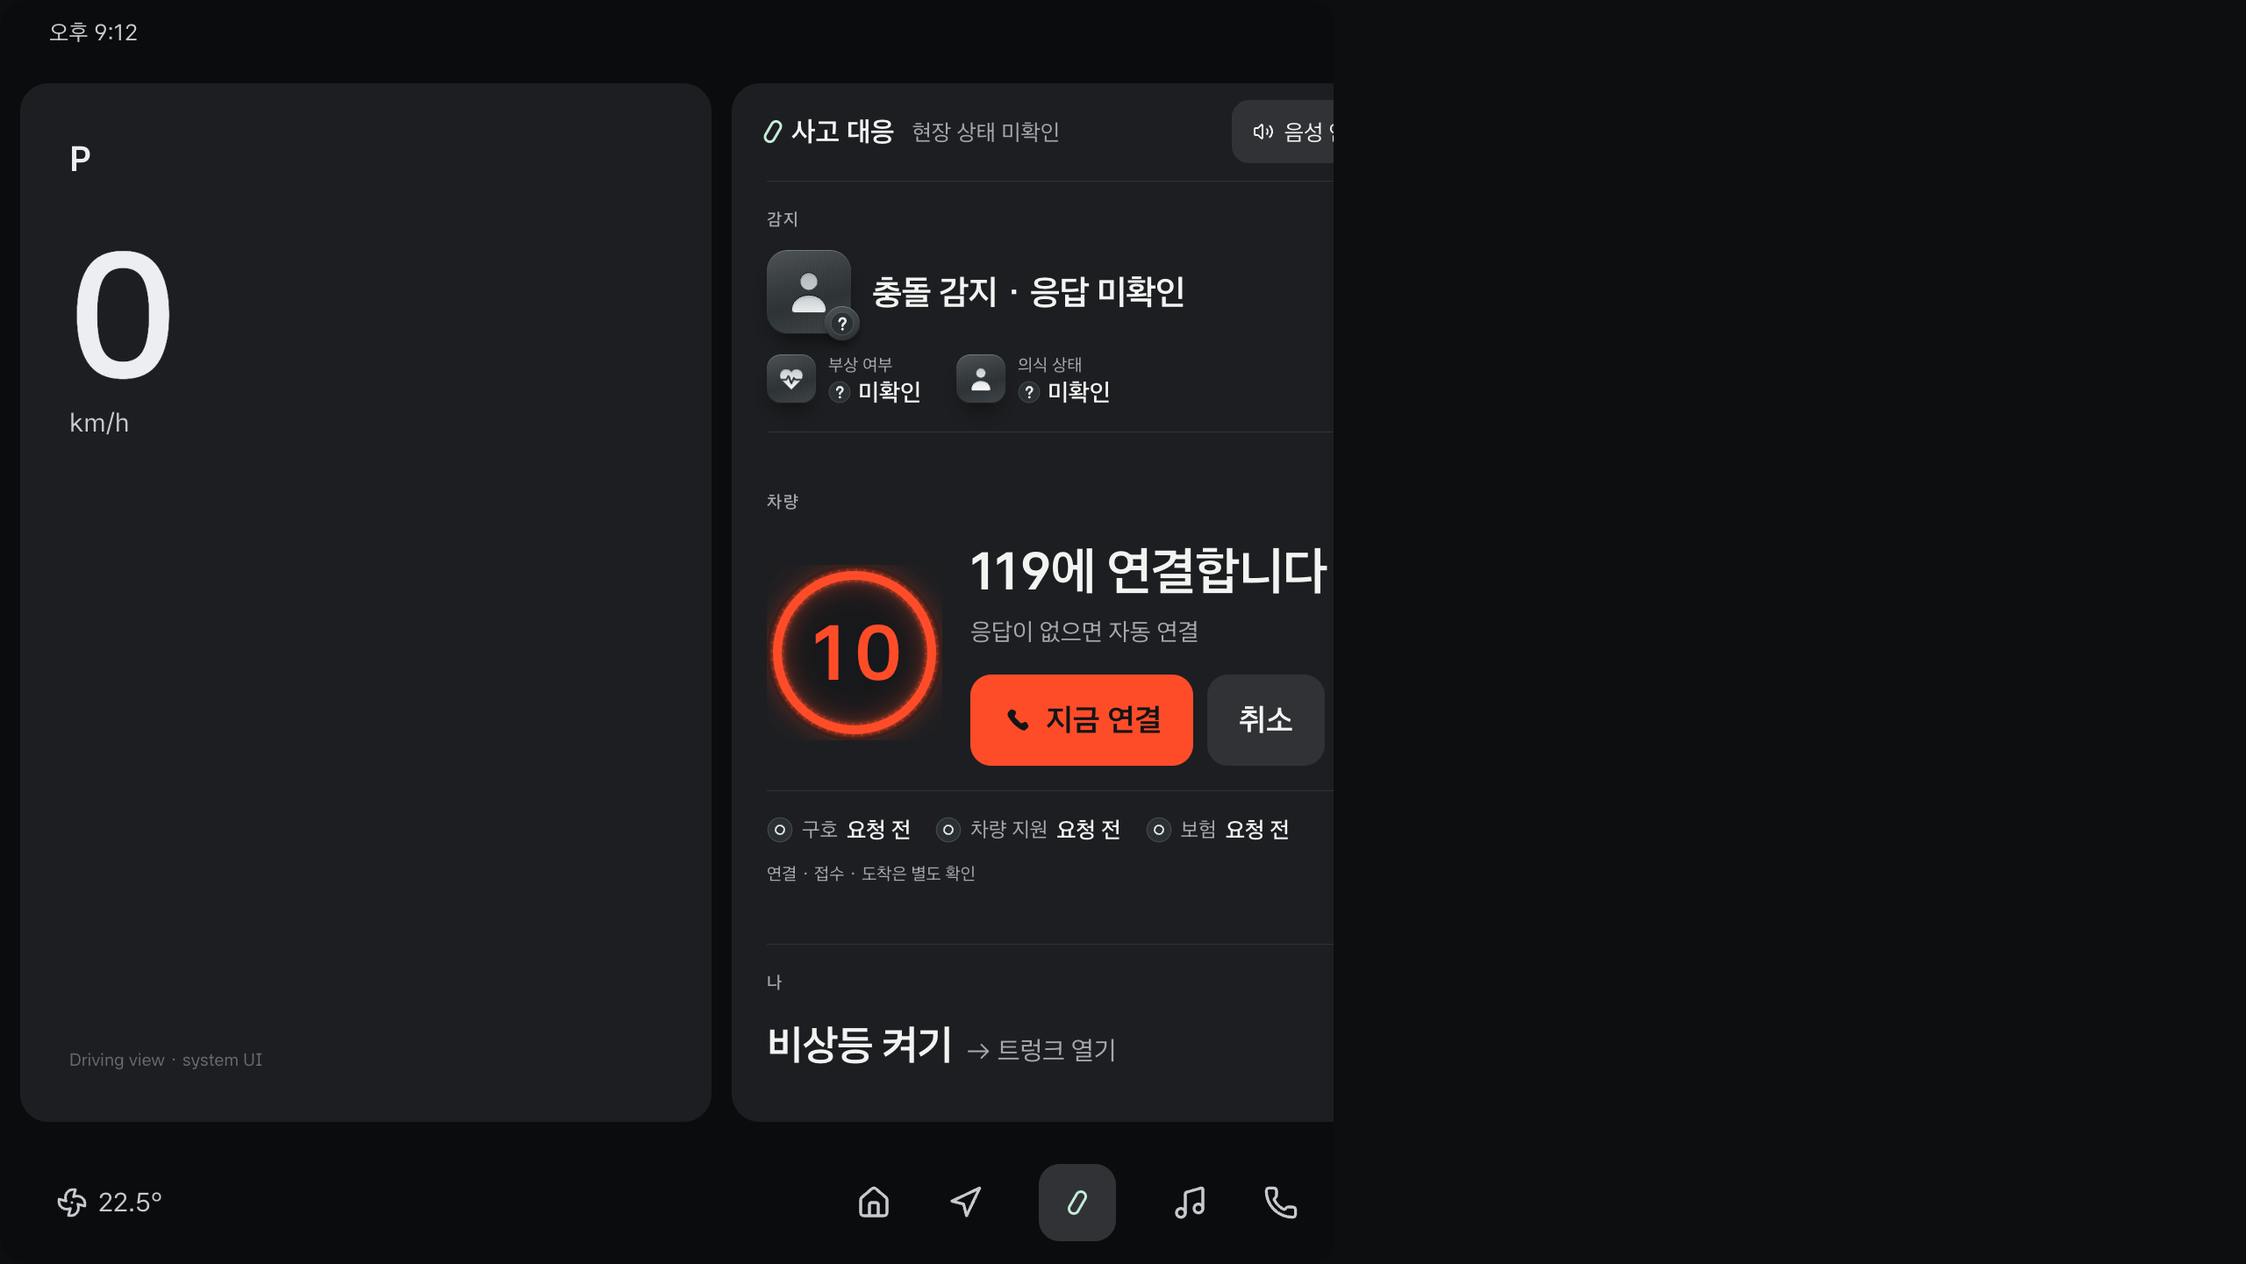
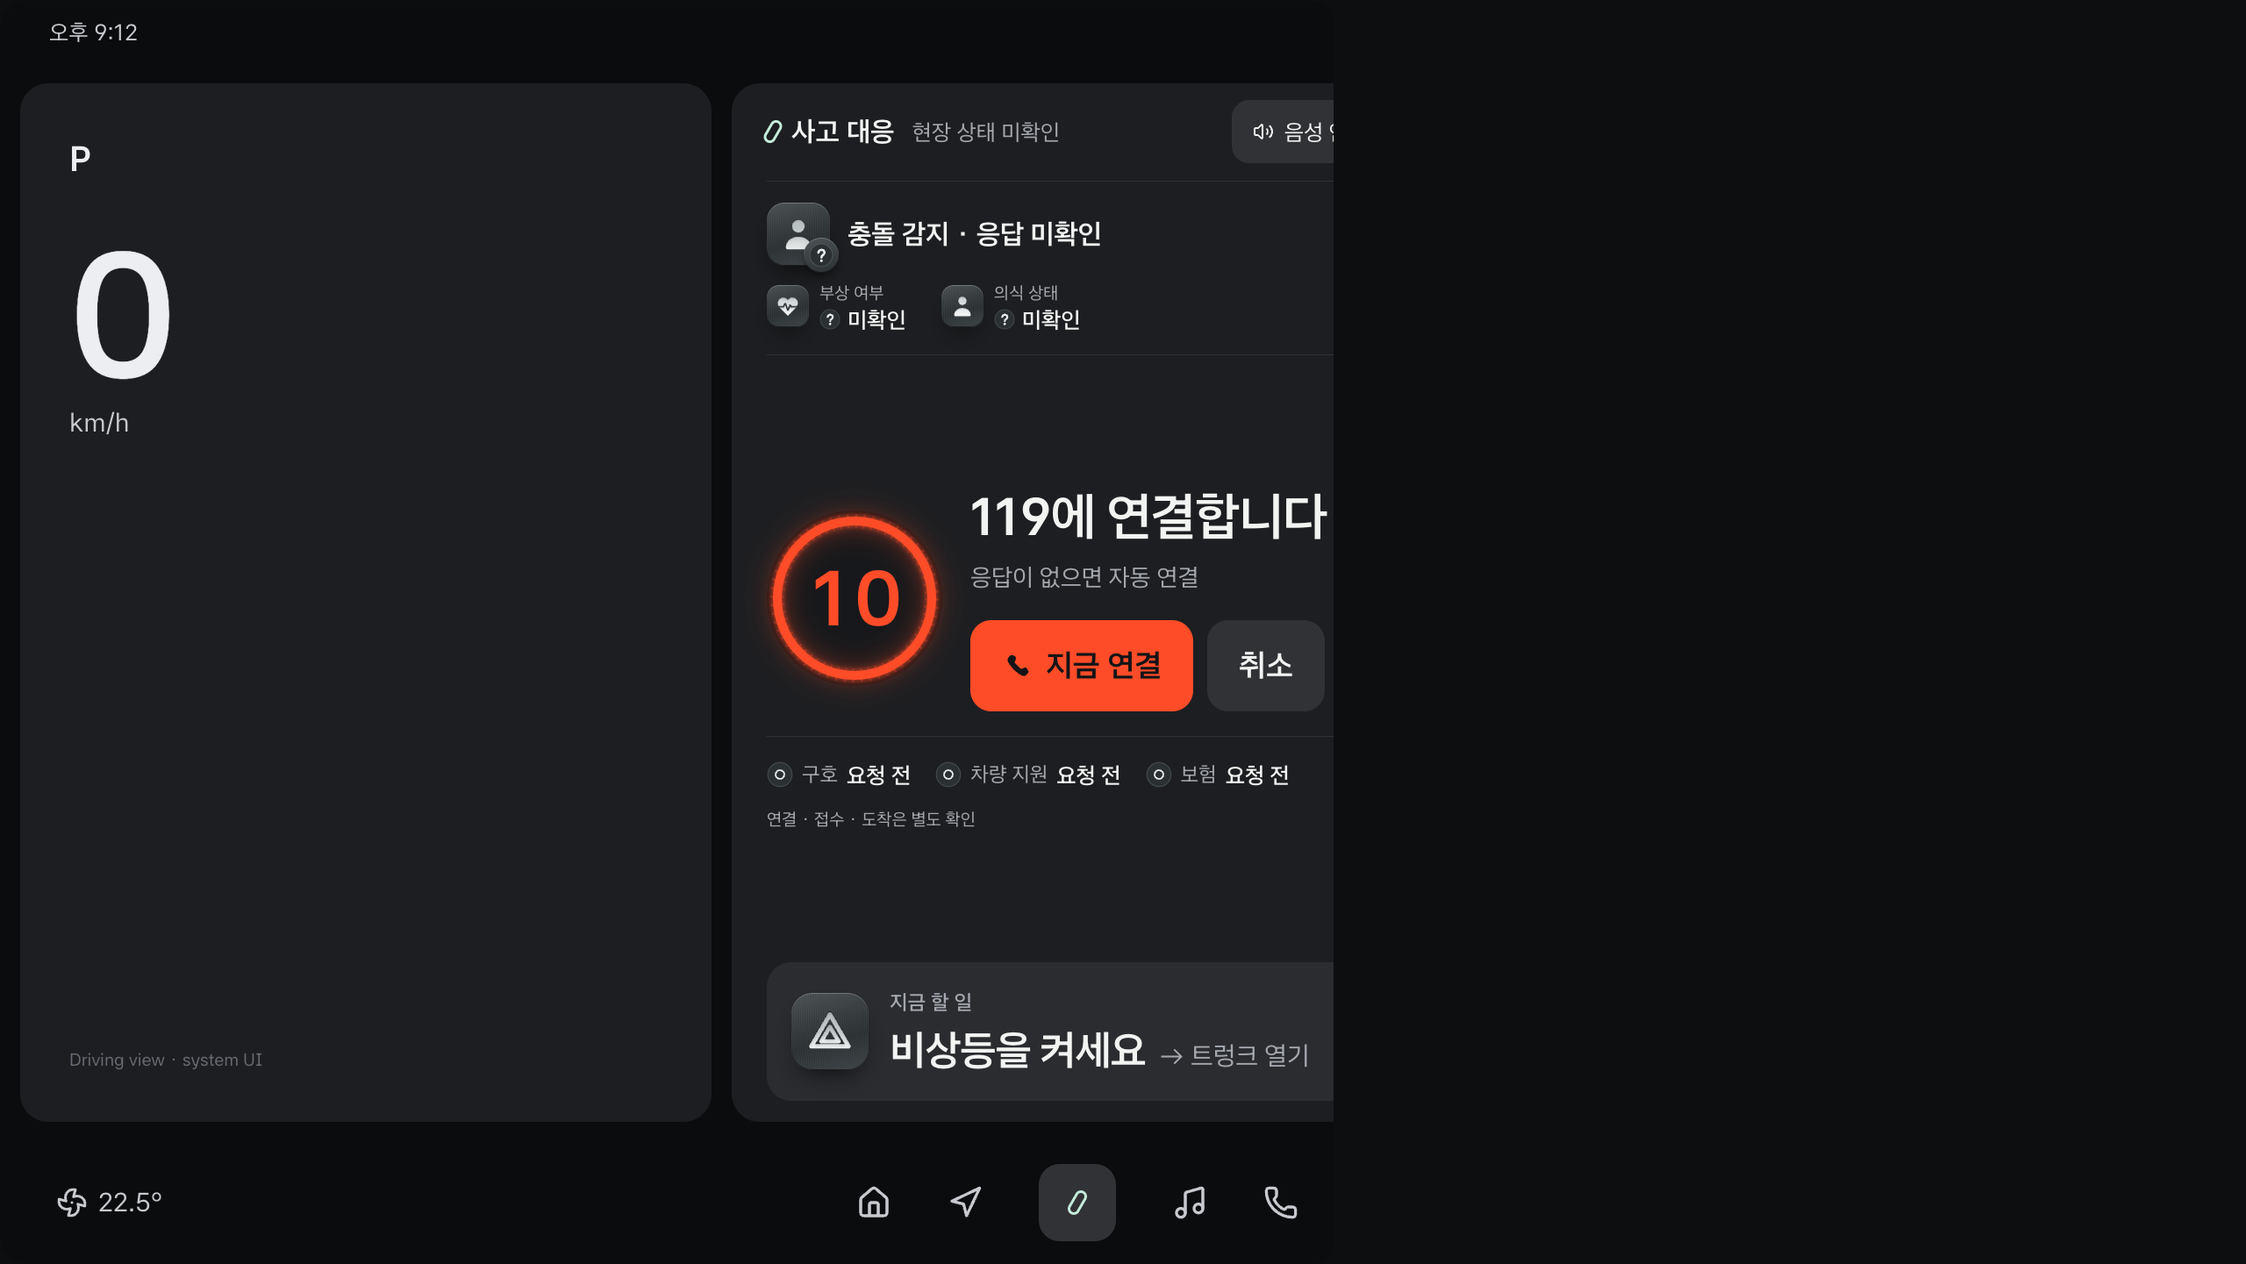
feat(web): drop slot name tags and give the driver a "now" card
The three slots were labelled 감지, 차량 and 나, which read like
wireframe notes and called the driver "나". The tags are gone: the
detected slot is a small status line, the car slot keeps the centre,
and the driver's action sits in a separate card led by "지금 할 일".

Self actions are now polite imperatives with an id (hazard, evacuate,
wait) that maps to a glyph through a new "self" table in glyphs.json,
including a new hazard glyph. The card glyph uses deep engraving to
clear 3:1 (3.47:1 measured), the ring glow is no longer clipped to a
square, and contrast evidence is recorded again at actual size.

Web 59/59, manifest 11/11.

diff --git a/prototype/web/src/emergency/EmergencyStudy.tsx b/prototype/web/src/emergency/EmergencyStudy.tsx
@@ -28,7 +28,7 @@ type Scene = Omit<(typeof manifest.scenarios)[number]['states'][number], 'action
   phase: 'decide' | 'progress' | 'settled'
   instruction?: string
   auto_contact?: { seconds: number; cancel: string; expire: string }
-  self_action?: { condition?: string; now: string; next?: string }
+  self_action?: { id: string; condition?: string; now: string; next?: string }
   actions: { id: string; label: string; to: string; slot?: string }[]
 }
 
@@ -212,13 +212,11 @@ export function EmergencyStudy() {
           {satin && <SatinSurface intensity={surfaceIntensity} onStatus={setSurfaceStatus} />}
           <header className="emergency-app-header"><span className="emergency-app-name"><span aria-hidden="true" />사고 대응</span><span className="emergency-context-label">{scenario.presentation.context_label}</span><button onClick={playVoice} className="emergency-voice-button">{voiceState === 'speaking' ? <VolumeX size={24} aria-hidden="true" /> : <Volume2 size={24} aria-hidden="true" />}{voiceState === 'speaking' ? '음성 안내 중지' : '음성 안내 듣기'}</button></header>
           <section className="emergency-slot emergency-detected" data-slot="detected" aria-label="핵심 상황">
-            <span className="emergency-slot-tag">감지</span>
-            <div className="emergency-symbol metal-plate" aria-hidden="true"><Glyph name={glyphFor.cue(scene.cue.symbol)} depth="deep" size={64} /><span className="emergency-symbol-state"><StatusMark tone={scene.cue.status} size={28} /></span></div>
+            <div className="emergency-symbol metal-plate" aria-hidden="true"><Glyph name={glyphFor.cue(scene.cue.symbol)} depth="deep" size={48} /><span className="emergency-symbol-state"><StatusMark tone={scene.cue.status} size={28} /></span></div>
             <h2 className={`tone-${scene.cue.status}`}>{scenario.presentation.detected} · {scene.cue.label}</h2>
-            <div className="emergency-facts">{facts.filter(fact => scenario.presentation.visible_facts.includes(fact.id)).map(fact => <div key={fact.id} className={`emergency-fact tone-${fact.status}`} data-fact={fact.id}><span className="emergency-fact-plate metal-plate"><Glyph name={glyphFor.fact(fact.id)} depth="shallow" size={36} /></span><span>{fact.label}</span><strong><StatusMark tone={fact.status} size={26} />{fact.value}</strong></div>)}</div>
+            <div className="emergency-facts">{facts.filter(fact => scenario.presentation.visible_facts.includes(fact.id)).map(fact => <div key={fact.id} className={`emergency-fact tone-${fact.status}`} data-fact={fact.id}><span className="emergency-fact-plate metal-plate"><Glyph name={glyphFor.fact(fact.id)} depth="shallow" size={32} /></span><span>{fact.label}</span><strong><StatusMark tone={fact.status} size={24} />{fact.value}</strong></div>)}</div>
           </section>
           <section className="emergency-slot emergency-car" data-slot="car" aria-label="차량이 할 일">
-            <span className="emergency-slot-tag">차량</span>
             {(() => {
               const carActions = scene.actions.filter(action => action.slot !== 'self').map(action => <button className="emergency-primary-action" key={action.id} onClick={() => goToScene(action.to, 'action')}><Glyph name={glyphFor.action(action.id)} depth="solid" size={36} /><span>{action.label}</span></button>)
               const copy = <div className="emergency-car-copy" aria-live="polite"><h1 ref={heading} tabIndex={-1}>{scene.title}</h1>{scene.auto_contact ? <p>응답이 없으면 자동 연결</p> : scene.instruction && <p>{scene.instruction}</p>}</div>
@@ -236,10 +234,13 @@ export function EmergencyStudy() {
               return <div key={request.id} className={`emergency-request tone-${status.tone}`} data-request={request.id}><StatusMark tone={status.tone} size={30} /><span className="emergency-request-name">{request.label}</span><strong>{status.label}</strong></div>
             })}<span className="emergency-status-boundary">연결 · 접수 · 도착은 별도 확인</span></div>
           </section>
-          <section className="emergency-slot emergency-self" data-slot="self" aria-label="내가 할 일">
-            <span className="emergency-slot-tag">나</span>
-            {scene.actions.filter(action => action.slot === 'self').map(action => <button className="emergency-primary-action is-self" key={action.id} onClick={() => goToScene(action.to, 'action')}><Glyph name={glyphFor.action(action.id)} depth="solid" size={36} /><span>{action.label}</span></button>)}
-            {scene.self_action && <p className="emergency-self-action">{scene.self_action.condition && <span>{scene.self_action.condition}</span>}<strong>{scene.self_action.now}</strong>{scene.self_action.next && <span>→ {scene.self_action.next}</span>}</p>}
+          <section className="emergency-slot emergency-self" data-slot="self" aria-label="지금 할 일">
+            {scene.self_action && <span className="emergency-self-plate metal-plate" aria-hidden="true"><Glyph name={glyphFor.self(scene.self_action.id)} depth="deep" size={56} /></span>}
+            <div className="emergency-self-copy">
+              <p className="emergency-self-lead">지금 할 일{scene.self_action?.condition && ` · ${scene.self_action.condition}`}</p>
+              {scene.actions.filter(action => action.slot === 'self').map(action => <button className="emergency-primary-action is-self" key={action.id} onClick={() => goToScene(action.to, 'action')}><Glyph name={glyphFor.action(action.id)} depth="solid" size={36} /><span>{action.label}</span></button>)}
+              {scene.self_action && <p className="emergency-self-action"><strong>{scene.self_action.now}</strong>{scene.self_action.next && <span>→ {scene.self_action.next}</span>}</p>}
+            </div>
           </section>
         </section>
         </PleosDisplay>

diff --git a/prototype/web/src/emergency/emergency.css b/prototype/web/src/emergency/emergency.css
@@ -52,24 +52,24 @@
 .emergency-voice-button { margin-left: auto; display: flex; align-items: center; gap: 12px; color: var(--foreground); background: var(--pleos-line); border: 0; border-radius: 20px; min-height: 72px; padding: 0 24px; font-size: 26px; }
 .emergency-voice-button:hover { background: #44464E; }
 .emergency-slot { display: flex; flex-direction: column; gap: 20px; padding: 28px 0; }
-.emergency-slot + .emergency-slot { border-top: 1px solid var(--pleos-line); }
-.emergency-slot-tag { font-size: 20px; font-weight: 600; letter-spacing: .08em; color: var(--pleos-subtle); }
-.emergency-detected { display: grid; grid-template-columns: 96px minmax(0, 1fr); align-items: center; gap: 20px 24px; }
-.emergency-detected > .emergency-slot-tag, .emergency-facts { grid-column: 1 / -1; }
-.emergency-detected h2 { margin: 0; font-size: 40px; font-weight: 700; line-height: 1.25; letter-spacing: -.02em; }
+/* 칸에는 이름표를 달지 않는다. ① 은 작은 상황 줄, ② 는 가운데 큰 영역, ③ 은 따로 띄운 "지금 할 일" card 다. */
+.emergency-car { border-top: 1px solid var(--pleos-line); }
+.emergency-detected { display: grid; grid-template-columns: 72px minmax(0, 1fr); align-items: center; gap: 16px 20px; padding: 24px 0; }
+.emergency-facts { grid-column: 1 / -1; }
+.emergency-detected h2 { margin: 0; font-size: 32px; font-weight: 700; line-height: 1.25; letter-spacing: -.01em; }
 .metal-plate { background: var(--metal-plate); box-shadow: inset 0 1px 0 rgba(255,255,255,.24), inset 0 -1px 0 rgba(0,0,0,.55), 0 14px 28px -12px rgba(0,0,0,.75); }
-.emergency-symbol { position: relative; flex: none; display: grid; place-items: center; width: 96px; height: 96px; border-radius: 24px; }
+.emergency-symbol { position: relative; flex: none; display: grid; place-items: center; width: 72px; height: 72px; border-radius: 20px; }
 .emergency-symbol-state { position: absolute; bottom: -8px; right: -10px; display: grid; place-items: center; width: 40px; height: 40px; border-radius: 50%; background: linear-gradient(165deg, #4C5255, #2B3033); box-shadow: inset 0 1px 0 rgba(255,255,255,.22), inset 0 -1px 0 rgba(0,0,0,.55), 0 6px 12px -4px rgba(0,0,0,.7); }
 .emergency-facts { display: flex; flex-wrap: wrap; gap: 16px 40px; }
-.emergency-fact { display: grid; grid-template-columns: 56px auto; column-gap: 14px; align-items: center; }
-.emergency-fact-plate { grid-row: span 2; display: grid; place-items: center; width: 56px; height: 56px; border-radius: 16px; }
+.emergency-fact { display: grid; grid-template-columns: 48px auto; column-gap: 12px; align-items: center; }
+.emergency-fact-plate { grid-row: span 2; display: grid; place-items: center; width: 48px; height: 48px; border-radius: 14px; }
 .emergency-fact > span:not(.emergency-fact-plate) { font-size: 20px; color: var(--pleos-subtle); }
-.emergency-fact > strong { display: flex; align-items: center; gap: 8px; font-size: 28px; line-height: 1.2; font-weight: 600; }
+.emergency-fact > strong { display: flex; align-items: center; gap: 8px; font-size: 26px; line-height: 1.2; font-weight: 600; }
 .emergency-car { flex: 1; justify-content: center; gap: 28px; }
 .emergency-car-main { display: flex; align-items: center; gap: 32px; }
 /* B · 빛: 빛 번짐은 ring 에만 둔다. Button 은 그림자·gradient 없는 단색이다. */
 .emergency-ring { position: relative; flex: none; width: 200px; height: 200px; border-radius: 50%; background: radial-gradient(circle, #17181B 0 58%, #121315 59%); }
-.emergency-ring svg { display: block; }
+.emergency-ring svg { display: block; overflow: visible; }
 .emergency-ring circle { fill: none; stroke-linecap: round; }
 .emergency-ring .emergency-ring-track { stroke: rgba(255,255,255,.12); stroke-width: 16; stroke-dasharray: 2.4 6.815; stroke-linecap: butt; }
 .emergency-ring.is-decide .emergency-ring-track { stroke: rgba(255,76,40,.26); }
@@ -93,11 +93,13 @@
 .emergency-request-name { font-size: 24px; color: var(--pleos-subtle); }
 .emergency-request strong { font-size: 26px; font-weight: 600; }
 .emergency-status-boundary { flex-basis: 100%; font-size: 20px; color: var(--pleos-subtle); }
-.emergency-self { flex: none; }
-.emergency-self-action { display: flex; align-items: baseline; flex-wrap: wrap; gap: 8px 16px; margin: 0; }
+.emergency-self { flex: none; flex-direction: row; align-items: center; gap: 24px; padding: 28px; border-radius: 28px; background: #2A2C30; }
+.emergency-self-plate { flex: none; display: grid; place-items: center; width: 88px; height: 88px; border-radius: 24px; }
+.emergency-self-copy { display: flex; flex-direction: column; align-items: flex-start; gap: 8px; min-width: 0; }
+.emergency-self-lead { margin: 0; font-size: 24px; font-weight: 600; color: var(--pleos-subtle); }
+.emergency-self-action { display: flex; align-items: baseline; flex-wrap: wrap; gap: 4px 16px; margin: 0; }
+.emergency-self-action > strong { font-size: 48px; font-weight: 800; line-height: 1.2; letter-spacing: -.02em; }
 .emergency-self-action > span { font-size: 30px; color: var(--pleos-subtle); }
-.emergency-self-action > strong { font-size: 48px; font-weight: 800; letter-spacing: -.02em; }
-.emergency-primary-action.is-self { align-self: flex-start; }
 @media (prefers-reduced-motion: reduce) { .emergency-ring-value { transition: none !important; } }
 .emergency-voice-status { color: var(--warning); font-size: 13px; line-height: 1.6; padding: 0 2px; }
 .emergency-voice-status:not(:empty) { padding-top: 10px; }

diff --git a/prototype/web/tests/emergency-urgent.spec.ts b/prototype/web/tests/emergency-urgent.spec.ts
@@ -1,7 +1,8 @@
 import { expect, test } from '@playwright/test'
 import manifest from '../../../specs/emergency-experience/scenarios.json' with { type: 'json' }
+import book from '../../../specs/emergency-experience/glyphs.json' with { type: 'json' }
 
-type Scene = (typeof manifest.scenarios)[number]['states'][number] & { phase: string; self_action?: { condition?: string; now: string; next?: string } }
+type Scene = (typeof manifest.scenarios)[number]['states'][number] & { phase: string; self_action?: { id: string; condition?: string; now: string; next?: string } }
 const scenes = manifest.scenarios.flatMap(scenario => (scenario.states as Scene[]).map(scene => ({ scenario, scene })))
 // Pleos informative_negative (dark). 구호 결정에만 쓴다.
 const RED = 'rgb(255, 76, 40)'
@@ -89,6 +90,27 @@ test('only_the_rescue_ring_glows', async ({ page }) => {
   await expect(page.locator('[data-urgent] .emergency-ring-value')).toHaveCSS('filter', /drop-shadow/)
   const glowing = await page.locator('.emergency-screen').evaluate(root => [...root.querySelectorAll('button')].filter(node => getComputedStyle(node).boxShadow !== 'none' || getComputedStyle(node).backgroundImage !== 'none').map(node => node.textContent))
   expect(glowing).toEqual([])
+})
+
+test('slots_carry_no_name_tags', async ({ page }) => {
+  for (const { scenario, scene } of scenes) {
+    await page.goto(`/?study=emergency&scenario=${scenario.id}&scene=${scene.id}`)
+    await expect(page.locator('[data-slot="car"]')).toBeVisible()
+    const tags = await page.locator('.emergency-screen').evaluate(root => [...root.querySelectorAll('*')].map(node => node.childNodes.length === 1 ? node.textContent!.trim() : '').filter(text => ['감지', '차량', '나'].includes(text)))
+    expect(tags, `${scenario.id}/${scene.id}`).toEqual([])
+  }
+})
+
+test('self_card_says_now_with_the_action_glyph', async ({ page }) => {
+  for (const { scenario, scene } of scenes) {
+    if (!scene.self_action) continue
+    await page.goto(`/?study=emergency&scenario=${scenario.id}&scene=${scene.id}`)
+    const card = page.locator('[data-slot="self"]')
+    const where = `${scenario.id}/${scene.id}`
+    await expect(card, where).toContainText('지금 할 일')
+    await expect(card, where).toContainText(scene.self_action.now)
+    await expect(card.locator(`[data-glyph="${(book.self as Record<string, string>)[scene.self_action.id]}"]`), where).toHaveCount(1)
+  }
 })
 
 test('screen_never_says_unconscious', async ({ page }) => {

diff --git a/prototype/web/tests/emergency-glyphs.spec.ts b/prototype/web/tests/emergency-glyphs.spec.ts
@@ -145,6 +145,7 @@ test.describe('contrast', () => {
     for (const scenario of manifest.scenarios) for (const id of scenario.presentation.visible_facts) {
       await check(`fact ${id}`, `scenario=${scenario.id}`, `[data-fact="${id}"] .emergency-fact-plate`)
     }
+    for (const [id, scene] of [['hazard', 'scenario=SC01&scene=initial'], ['evacuate', 'scenario=SC01&scene=contact_unknown'], ['wait', 'scenario=SC05&scene=initial']]) await check(`self ${id}`, scene, '.emergency-self-plate')
     await check('mark unknown', 'scenario=SC05&scene=initial', '.emergency-symbol-state [data-mark]')
     await check('mark attention', 'scenario=SC01&scene=initial', '.emergency-symbol-state [data-mark]')
     await check('mark confirmed', 'scenario=SC05&scene=initial', '[data-request] [data-mark="confirmed"]')

diff --git a/prototype/web/tests/glyphs-data.spec.ts b/prototype/web/tests/glyphs-data.spec.ts
@@ -18,6 +18,11 @@ test('every_visible_fact_cue_action_and_tone_has_a_glyph', () => {
       used.add(book.cue[state.cue.symbol as keyof typeof book.cue])
       expect(marks, `cue tone ${state.cue.status}`).toHaveProperty(state.cue.status)
       for (const action of state.actions) used.add((book.actions as Record<string, string>)[action.id] ?? book.actions.default)
+      const self = (state as { self_action?: { id: string } }).self_action
+      if (self) {
+        expect(book, `self ${self.id}`).toHaveProperty(['self', self.id])
+        used.add((book as unknown as { self: Record<string, string> }).self[self.id])
+      }
     }
   }
   for (const status of Object.values(manifest.request_statuses)) expect(marks, `tone ${status.tone}`).toHaveProperty(status.tone)

diff --git a/prototype/web/src/emergency/glyphs.tsx b/prototype/web/src/emergency/glyphs.tsx
@@ -14,6 +14,7 @@ export const glyphFor = {
   cue: (symbol: string) => (book.cue as Record<string, string>)[symbol],
   fact: (id: string) => (book.facts as Record<string, string>)[id],
   action: (id: string) => (book.actions as Record<string, string>)[id] ?? book.actions.default,
+  self: (id: string) => (book.self as Record<string, string>)[id],
 }
 
 const { plate } = book.material
